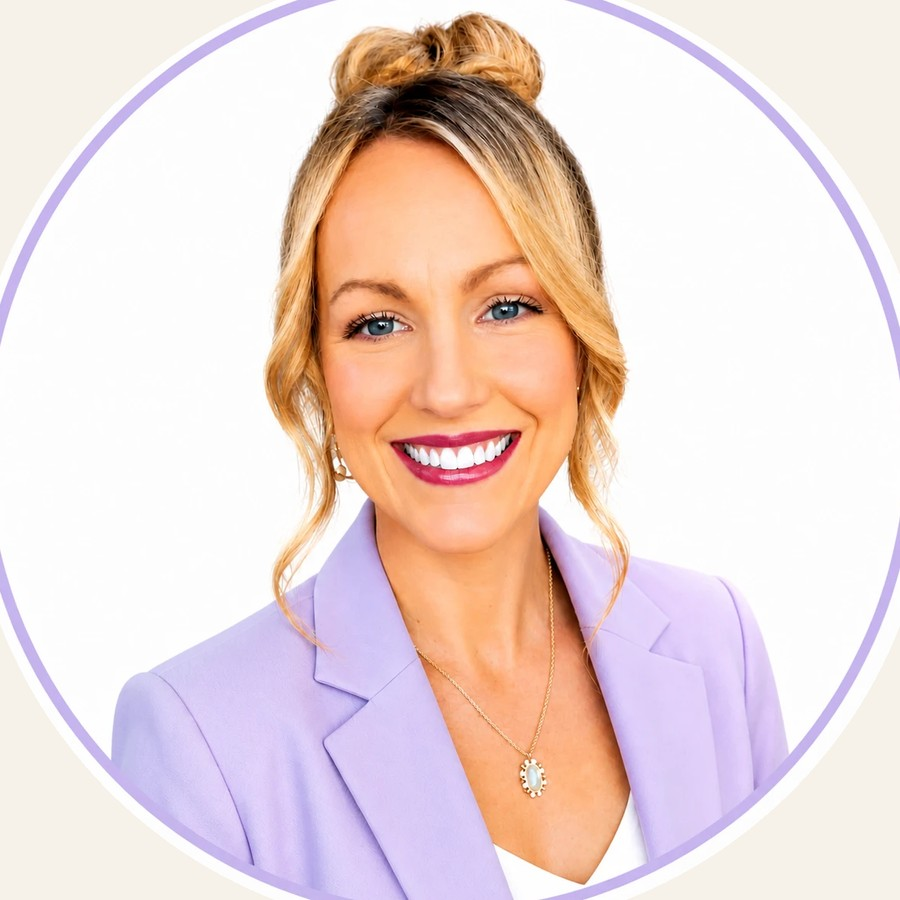
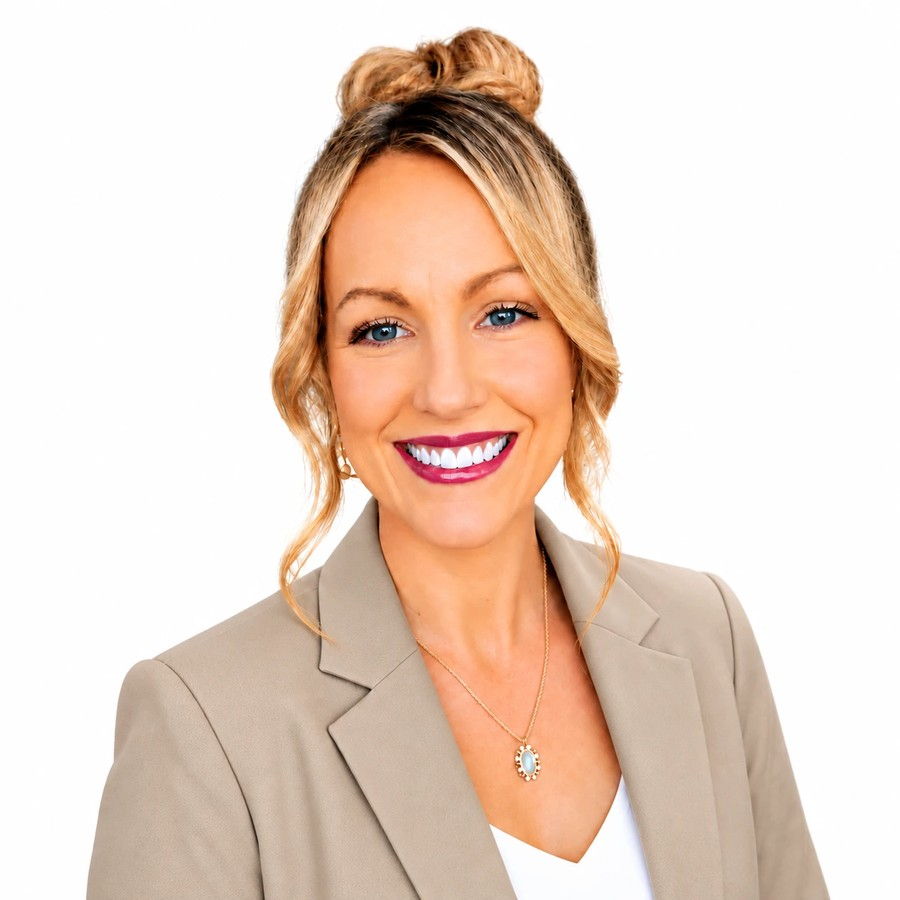
Fix italic body-text legibility and update Meghan's headshot
Bodoni Moda's italic has extreme stroke contrast that reads fine at
large display sizes but turns illegible in the thin strokes once used
for full sentences (hero lede, About dek, contact lede, service
descriptions) — that's what was reported as "hard to read." Those
passages now use Jost italic (the body sans) instead, which keeps an
even stroke weight at body-text sizes. Also loads Jost's actual italic
font files (the Google Fonts request previously only pulled roman
weights, so italic was rendering as browser-synthesized oblique).

Short, large display accents (pay-note title, closing CTA, lifestyle
banner caption) keep the Bodoni Moda italic, where it still reads well.

Swaps in the new headshot supplied for the About section.

Claude-Session: https://claude.ai/code/session_01GPQNQ134tq1gBuvdCgcdmD

diff --git a/css/style.css b/css/style.css
@@ -504,10 +504,11 @@ textarea {
 }
 
 .hero__lede {
-  font-family: var(--font-display);
+  font-family: var(--font-body);
   font-style: italic;
+  font-weight: 300;
   font-size: var(--step-lead);
-  line-height: 1.5;
+  line-height: 1.55;
   max-width: 34rem;
   color: var(--cream-text-dim);
   opacity: 0;
@@ -612,10 +613,11 @@ textarea {
 }
 
 .about__dek {
-  font-family: var(--font-display);
+  font-family: var(--font-body);
   font-style: italic;
+  font-weight: 400;
   font-size: var(--step-lead);
-  line-height: 1.5;
+  line-height: 1.6;
   max-width: var(--measure);
   color: var(--ink-900);
   margin-top: 1.5rem;
@@ -748,9 +750,10 @@ textarea {
 
 .menu__item-desc {
   margin-top: 0.4rem;
-  font-family: var(--font-display);
+  font-family: var(--font-body);
   font-style: italic;
-  font-size: 0.97rem;
+  font-size: 0.94rem;
+  line-height: 1.5;
   color: var(--cream-text-dim);
   max-width: 34ch;
 }
@@ -921,10 +924,10 @@ textarea {
 }
 
 .contact-hero__lede {
-  font-family: var(--font-display);
+  font-family: var(--font-body);
   font-style: italic;
   font-size: var(--step-lead);
-  line-height: 1.5;
+  line-height: 1.6;
   margin-top: 1.5rem;
   max-width: 34rem;
   color: var(--ink-700);

diff --git a/contact.html b/contact.html
@@ -8,7 +8,7 @@
   <link rel="icon" type="image/png" href="assets/images/logo-mark.png" />
   <link rel="preconnect" href="https://fonts.googleapis.com" />
   <link rel="preconnect" href="https://fonts.gstatic.com" crossorigin />
-  <link href="https://fonts.googleapis.com/css2?family=Bodoni+Moda:ital,opsz,wght@0,6..96,400..800;1,6..96,400..700&family=Jost:wght@300;400;500;600&display=swap" rel="stylesheet" />
+  <link href="https://fonts.googleapis.com/css2?family=Bodoni+Moda:ital,opsz,wght@0,6..96,400..800;1,6..96,400..700&family=Jost:ital,wght@0,300;0,400;0,500;0,600;1,300;1,400;1,500&display=swap" rel="stylesheet" />
   <link rel="stylesheet" href="css/style.css" />
 </head>
 <body>

diff --git a/index.html b/index.html
@@ -8,7 +8,7 @@
   <link rel="icon" type="image/png" href="assets/images/logo-mark.png" />
   <link rel="preconnect" href="https://fonts.googleapis.com" />
   <link rel="preconnect" href="https://fonts.gstatic.com" crossorigin />
-  <link href="https://fonts.googleapis.com/css2?family=Bodoni+Moda:ital,opsz,wght@0,6..96,400..800;1,6..96,400..700&family=Jost:wght@300;400;500;600&display=swap" rel="stylesheet" />
+  <link href="https://fonts.googleapis.com/css2?family=Bodoni+Moda:ital,opsz,wght@0,6..96,400..800;1,6..96,400..700&family=Jost:ital,wght@0,300;0,400;0,500;0,600;1,300;1,400;1,500&display=swap" rel="stylesheet" />
   <link rel="stylesheet" href="css/style.css" />
 </head>
 <body>
